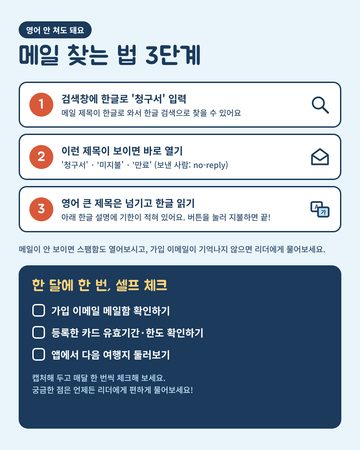
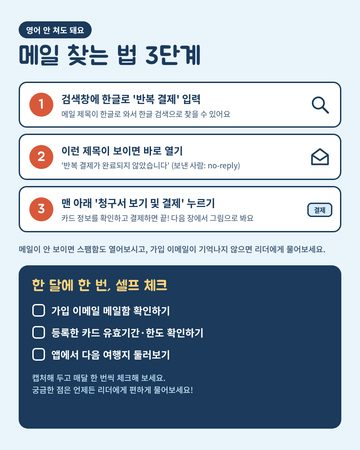
결제 메일: 실제 메일 예시 카드 추가, 메일 찾는 법 '반복 결제'로 수정, 미납 문자에 메일 제목
Claude-Session: https://claude.ai/code/session_0198nErUGBjP1whuoyUJAxZ6

diff --git a/cards/index.html b/cards/index.html
@@ -94,7 +94,7 @@ footer{text-align:center;color:var(--sub);font-size:.8rem;padding:10px 16px calc
 <div class="toast" id="toast"></div>
 
 <script>
-var SETS=[{"l": "ko", "c": "start", "id": "ko-must1", "t": "가입 전 필독 ① 내고 쌓이는 구독", "n": 6}, {"l": "ko", "c": "start", "id": "ko-must2", "t": "가입 전 필독 ② 리워드 2배인 이유", "n": 6}, {"l": "ko", "c": "start", "id": "ko-must3", "t": "가입 전 필독 ③ 쌓은 리워드 쓰는 법", "n": 6}, {"l": "ko", "c": "start", "id": "ko-must4", "t": "가입 전 필독 ④ 구독을 멈추면?", "n": 7}, {"l": "ko", "c": "start", "id": "ko-refund", "t": "환불 · 결제 멈춤 · 탈퇴의 차이", "n": 8}, {"l": "ko", "c": "member", "id": "ko-allrw", "t": "올 리워드 — 리워드만으로 예약", "n": 5}, {"l": "ko", "c": "member", "id": "ko-mymail", "t": "내 계정은 내가 챙겨요 · 결제 메일 확인", "n": 4}, {"l": "ko", "c": "partner", "id": "ko-comp", "t": "파트너 보상, 한 계단씩", "n": 12, "lk": 1}, {"l": "ko", "c": "partner", "id": "ko-know", "t": "MD 가는 노하우 4가지", "n": 13, "lk": 1}, {"l": "ja", "c": "start", "id": "ja-must1", "t": "加入前に必読 ① 貯まるサブスク", "n": 6}, {"l": "ja", "c": "start", "id": "ja-must2", "t": "加入前に必読 ② リワード2倍の理由", "n": 6}, {"l": "ja", "c": "start", "id": "ja-must3", "t": "加入前に必読 ③ リワードの使い方", "n": 6}, {"l": "ja", "c": "start", "id": "ja-must4", "t": "加入前に必読 ④ 会費を止めたら？", "n": 7}, {"l": "ja", "c": "start", "id": "ja-refund", "t": "返金・支払い停止・退会のちがい", "n": 8}, {"l": "ja", "c": "member", "id": "ja-allrw", "t": "オールリワード — リワードだけで予約", "n": 5}, {"l": "en", "c": "start", "id": "en-must1", "t": "Must-read ① A subscription that adds up", "n": 6}, {"l": "en", "c": "start", "id": "en-must2", "t": "Must-read ② Why 2x rewards?", "n": 6}, {"l": "en", "c": "start", "id": "en-must3", "t": "Must-read ③ How to use your rewards", "n": 6}, {"l": "en", "c": "start", "id": "en-must4", "t": "Must-read ④ If you pause", "n": 7}, {"l": "en", "c": "start", "id": "en-refund", "t": "Refund · pause · cancel", "n": 8}, {"l": "en", "c": "member", "id": "en-allrw", "t": "All Reward — book with rewards only", "n": 5}, {"l": "en", "c": "partner", "id": "en-comp", "t": "Partner rewards, step by step", "n": 12, "lk": 1}, {"l": "en", "c": "partner", "id": "en-know", "t": "4 tips to reach MD", "n": 13, "lk": 1}];
+var SETS=[{"l": "ko", "c": "start", "id": "ko-must1", "t": "가입 전 필독 ① 내고 쌓이는 구독", "n": 6}, {"l": "ko", "c": "start", "id": "ko-must2", "t": "가입 전 필독 ② 리워드 2배인 이유", "n": 6}, {"l": "ko", "c": "start", "id": "ko-must3", "t": "가입 전 필독 ③ 쌓은 리워드 쓰는 법", "n": 6}, {"l": "ko", "c": "start", "id": "ko-must4", "t": "가입 전 필독 ④ 구독을 멈추면?", "n": 7}, {"l": "ko", "c": "start", "id": "ko-refund", "t": "환불 · 결제 멈춤 · 탈퇴의 차이", "n": 8}, {"l": "ko", "c": "member", "id": "ko-allrw", "t": "올 리워드 — 리워드만으로 예약", "n": 5}, {"l": "ko", "c": "member", "id": "ko-mymail", "t": "내 계정은 내가 챙겨요 · 결제 메일 확인", "n": 5}, {"l": "ko", "c": "partner", "id": "ko-comp", "t": "파트너 보상, 한 계단씩", "n": 12, "lk": 1}, {"l": "ko", "c": "partner", "id": "ko-know", "t": "MD 가는 노하우 4가지", "n": 13, "lk": 1}, {"l": "ja", "c": "start", "id": "ja-must1", "t": "加入前に必読 ① 貯まるサブスク", "n": 6}, {"l": "ja", "c": "start", "id": "ja-must2", "t": "加入前に必読 ② リワード2倍の理由", "n": 6}, {"l": "ja", "c": "start", "id": "ja-must3", "t": "加入前に必読 ③ リワードの使い方", "n": 6}, {"l": "ja", "c": "start", "id": "ja-must4", "t": "加入前に必読 ④ 会費を止めたら？", "n": 7}, {"l": "ja", "c": "start", "id": "ja-refund", "t": "返金・支払い停止・退会のちがい", "n": 8}, {"l": "ja", "c": "member", "id": "ja-allrw", "t": "オールリワード — リワードだけで予約", "n": 5}, {"l": "en", "c": "start", "id": "en-must1", "t": "Must-read ① A subscription that adds up", "n": 6}, {"l": "en", "c": "start", "id": "en-must2", "t": "Must-read ② Why 2x rewards?", "n": 6}, {"l": "en", "c": "start", "id": "en-must3", "t": "Must-read ③ How to use your rewards", "n": 6}, {"l": "en", "c": "start", "id": "en-must4", "t": "Must-read ④ If you pause", "n": 7}, {"l": "en", "c": "start", "id": "en-refund", "t": "Refund · pause · cancel", "n": 8}, {"l": "en", "c": "member", "id": "en-allrw", "t": "All Reward — book with rewards only", "n": 5}, {"l": "en", "c": "partner", "id": "en-comp", "t": "Partner rewards, step by step", "n": 12, "lk": 1}, {"l": "en", "c": "partner", "id": "en-know", "t": "4 tips to reach MD", "n": 13, "lk": 1}];
 var T={
  ko:{h1:"카드뉴스 자료실",lead:"카드를 눌러 크게 보고, 저장해서 카톡으로 보내 주세요.",start:"처음 오셨어요 · 가입 전 필독",member:"멤버 활용",partner:"파트너 자료",n:"장",save:"⬇ 이미지 저장",share:"📤 이 장만 보내기",all:"💬 {n}장 한번에 보내기",prep:"준비 중… {a}/{n}",link:"🔗 링크 복사",copied:"링크를 복사했어요",save1:"⬇ 저장",share1:"📤 보내기",scroll:"👇 아래로 내리면 다음 장이 나와요",end:"끝까지 보셨어요 😊",hint:"저장이 안 되면 카드를 길게 눌러 ‘이미지 저장’을 눌러 주세요.",close:"닫기",list:"목록",hub:"허브로 돌아가기",locked:"파트너 자료는 허브에 로그인한 분만 볼 수 있어요.",login:"허브에서 로그인하기"},
  ja:{h1:"カードニュース資料室",lead:"カードをタップして大きく見て、保存してLINEなどで送ってください。",start:"はじめての方・加入前に必読",member:"メンバー活用",partner:"パートナー資料",n:"枚",save:"⬇ 画像を保存",share:"📤 この1枚を送る",all:"💬 {n}枚まとめて送る",prep:"準備中… {a}/{n}",link:"🔗 リンクをコピー",copied:"リンクをコピーしました",save1:"⬇ 保存",share1:"📤 送る",scroll:"👇 下にスクロールすると次のカードが出ます",end:"最後まで見ました 😊",hint:"保存できない時は、カードを長押しして「画像を保存」を選んでください。",close:"閉じる",list:"一覧",hub:"ハブに戻る",locked:"パートナー資料はハブにログインした方だけ見られます。",login:"ハブでログイン"},

diff --git a/index.html b/index.html
@@ -843,7 +843,7 @@ button[disabled]{opacity:.6;cursor:default}
     function extras(){try{ccRouter()}catch(e){console.error(e)}try{fixTitles();ccVideoTabs(document)}catch(e){}try{ccAddons()}catch(e){console.error(e)}}
     /* 미납 안내 문자: 다정한 문구로 (복사되는 글 + 화면에 보이는 글 모두) */
     var UNPAID_T="🌊 크루즈 멤버십 결제 안내",
-        UNPAID_B="안녕하세요, 잘 지내셨죠? 😊\n이번 달 멤버십 결제가 아직 안 된 것 같아서 살짝 알려드려요.\n결제 안내 메일도 가 있을 거예요. 혹시 안 보이면 스팸함도 한 번 봐 주세요!\n카드 한도나 유효기간 때문에 자동결제가 안 되는 경우가 많더라고요.\n\n아래 안내 페이지 보시면 금방 해결하실 수 있어요 🙏\n혹시 어려우시면 편하게 말씀 주세요, 같이 도와드릴게요!",
+        UNPAID_B="안녕하세요, 잘 지내셨죠? 😊\n이번 달 멤버십 결제가 아직 안 된 것 같아서 살짝 알려드려요.\n결제 안내 메일도 가 있을 거예요. \'반복 결제가 완료되지 않았습니다\'라는 제목이에요. 혹시 안 보이면 스팸함도 한 번 봐 주세요!\n카드 한도나 유효기간 때문에 자동결제가 안 되는 경우가 많더라고요.\n\n아래 안내 페이지 보시면 금방 해결하실 수 있어요 🙏\n혹시 어려우시면 편하게 말씀 주세요, 같이 도와드릴게요!",
         UNPAID_L="👇 결제 안내 바로가기\nhttps://kbellalee4808-star.github.io/-_/",
         UNPAID_M="📮 메일 찾는 법 (그림으로 쉽게)\nhttps://kbellalee4808-star.github.io/cruiseclub_hub/cards/#ko-mymail";
     function fixUnpaid(){
